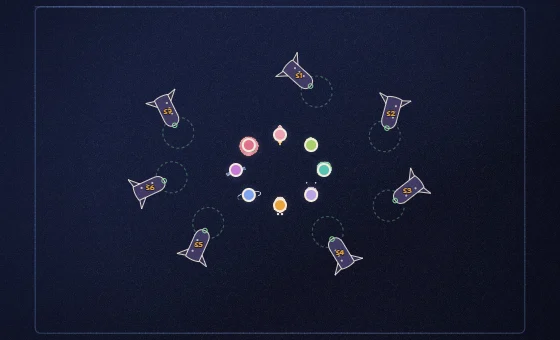
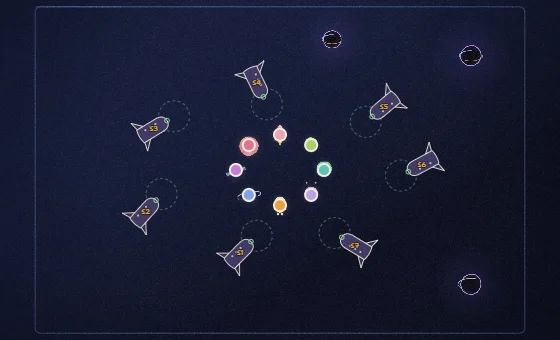
Docking Bay: black holes
Two or three black holes sit out past the shuttles (the two right-hand
corners, and sometimes one by the top or bottom edge), each wobbling
slowly round its own spot. They pull, and a floating racer that falls in
is out on the spot; docked racers are safe. When that happens a free
shuttle leaves too, so the seats still free stay one fewer than the
racers still looking. Each heat's shuttles are laid out clear of the
holes. None on the left, where the page's cards cover the room on a
computer and a hole could not be seen.

Holes now account for about a third of the knockouts; 8 racers race in
about 35-65 s, 16 in about 1.5-3 min, every race still ending with one
winner. Rules text and step pictures updated.

diff --git a/src/maps/dock.js b/src/maps/dock.js
@@ -12,10 +12,18 @@
 // port that reaches further and pulls harder the longer the heat goes on.
 // The beams are the same for everyone; who gets caught is down to where they
 // happen to be drifting.
+//
+// Two or three black holes sit out past the shuttles (the right-hand corners,
+// sometimes one by the top or bottom edge), each wobbling slowly round its
+// own spot. They pull, and a floating racer that
+// falls in is out on the spot. Docked racers are safe. A free shuttle leaves
+// with whoever fell in, so the seats still free stay one fewer than the
+// racers still looking for one.
 
 import { makeRng, hashSeed } from '../rng.js';
 import { staticRect, staticCircle, add, remove } from '../engine.js';
 import { drawEdge } from './common.js';
+import { createHole, updateHoles, holeCapturing, drawHoles } from './hazards.js';
 import { BODY } from '../config.js';
 import { t } from '../i18n.js';
 
@@ -32,6 +40,8 @@ const MIN_SPEED = 1.6;                   // a racer slower than this gets a nudg
 const HEAT_LIMIT_MS = 45000;             // insurance: a heat this long is called
 const VERDICT_MS = 1300;                 // the left-out racer is shown, then goes
 const BREAK_MS = 1400;                   // between heats, before the next shuttles arrive
+const HOLE_WOBBLE = 110;                 // how far a black hole wanders from its corner
+const HOLE_CLEAR = 300;                  // shuttles keep at least this far from a hole
 
 export default {
   id: 'dock',
@@ -40,10 +50,10 @@ export default {
   population: [2, 16],
   blurb: 'one shuttle short',
   rules: {
-    out: 'Still floating when the last shuttle is taken.',
-    watch: 'Every heat has one shuttle fewer than racers. Drift into a docking circle to get a seat; the beams pull harder as a heat goes on.',
+    out: 'Still floating when the last shuttle is taken, or falling into a black hole.',
+    watch: 'Every heat has one shuttle fewer than racers. Drift into a docking circle to get a seat, and keep clear of the black holes in the corners.',
   },
-  description: 'There is always one shuttle too few: drift into a docking circle to take a seat, and whoever is left floating each heat is out.',
+  description: 'There is always one shuttle too few: drift into a docking circle to take a seat, mind the black holes, and whoever is left floating each heat is out.',
 
   build({ sim, seed }) {
     const { Matter } = sim;
@@ -60,6 +70,27 @@ export default {
       staticRect(sim, half.w + 40, 0, 80, H + 200, wallOpts),
     );
 
+    // Black holes in the two right-hand corners, and sometimes a third near
+    // the top or bottom edge, each with its own slow wobble round its home
+    // spot. Never on the left: on a computer the page's left-hand cards
+    // cover that third of the room, and a hole nobody can see is not fair.
+    const spots = [[0.78, 0.7], [0.78, -0.7]];
+    if (rng() < 0.5) spots.push([rng.range(-0.05, 0.3), rng.sign() * 0.8]);
+    const holes = spots.map(([fx, fy], i) => {
+      const r = rng.range(38, 48);
+      const home = { x: fx * half.w, y: fy * half.h };
+      const h = createHole(sim, {
+        x: home.x, y: home.y, r,
+        seed: hashSeed('dockhole', seed, i),
+        mu: r * 150,
+        maxAccel: 0.75,
+      });
+      h.home = home;
+      h.phase = rng() * Math.PI * 2;
+      h.speed = rng.range(0.00025, 0.0005);
+      return h;
+    });
+
     let shuttles = [];   // { id, num, x, y, port, body, occupant, born, gone }
     let leaving = [];    // last heat's shuttles, fading out
     let heatNo = 0;
@@ -67,8 +98,32 @@ export default {
 
     // Lays out `count` shuttles round the room, spread evenly so no part of
     // it is favoured, each with its port facing somewhere between the middle
-    // and side-on, never into a wall.
+    // and side-on, never into a wall, and clear of the black holes: it turns
+    // the whole ring until nothing sits within HOLE_CLEAR of a hole's home.
     function layout(count, time) {
+      let best = null;
+      let bestGap = -1;
+      for (let attempt = 0; attempt < 24; attempt++) {
+        const ring = ringOf(count, time);
+        let gap = Infinity;
+        for (const s of ring) {
+          const q = portOf(s);
+          for (const h of holes) {
+            gap = Math.min(gap,
+              Math.hypot(s.x - h.home.x, s.y - h.home.y),
+              Math.hypot(q.x - h.home.x, q.y - h.home.y));
+          }
+        }
+        if (gap > bestGap) {
+          best = ring;
+          bestGap = gap;
+        }
+        if (gap >= HOLE_CLEAR + HOLE_WOBBLE) break;
+      }
+      return best || [];
+    }
+
+    function ringOf(count, time) {
       const out = [];
       const turn = rng() * Math.PI * 2;
       const rx = half.w * 0.66;
@@ -196,6 +251,55 @@ export default {
 
     // The racer to call out if a heat drags on: whoever is farthest from any
     // port still free.
+    // The holes wobble round their corners; never far enough to reach the
+    // shuttles, which were laid out clear of them.
+    function moveHoles(dt, round) {
+      updateHoles(holes, dt, 0, bounds, round.particles);
+      for (const h of holes) {
+        const a = h.phase + round.time * h.speed;
+        h.well.x = h.home.x + Math.cos(a) * HOLE_WOBBLE;
+        h.well.y = h.home.y + Math.sin(a * 1.3) * HOLE_WOBBLE * 0.7;
+      }
+    }
+
+    // A floating racer inside a hole's edge is out. Docked racers are safe.
+    function swallow(round) {
+      let lost = false;
+      for (const p of round.alivePlayers()) {
+        if (p.docked) continue;
+        const pos = p.body.position;
+        const h = holeCapturing(holes, pos);
+        if (h && round.kill(p, 'hole', { at: pos, target: { x: h.well.x, y: h.well.y } })) lost = true;
+      }
+      if (lost) rebalance(round);
+    }
+
+    // Keeps the free shuttles one fewer than the racers still floating, by
+    // sending away the free ones farthest from anybody.
+    function rebalance(round) {
+      const floating = round.alivePlayers().filter((p) => !p.docked);
+      let extra = shuttles.filter((s) => s.occupant === null).length - Math.max(0, floating.length - 1);
+      while (extra-- > 0) {
+        let pick = null;
+        let far = -1;
+        for (const s of shuttles) {
+          if (s.occupant !== null) continue;
+          const q = portOf(s);
+          const d = Math.min(Infinity, ...floating.map((p) => Math.hypot(q.x - p.body.position.x, q.y - p.body.position.y)));
+          if (d > far) {
+            far = d;
+            pick = s;
+          }
+        }
+        if (!pick) break;
+        if (pick.body) remove(sim, pick.body);
+        pick.body = null;
+        pick.gone = round.time;
+        leaving.push(pick);
+        shuttles = shuttles.filter((s) => s !== pick);
+      }
+    }
+
     function farthest(list) {
       let worst = null;
       let far = -1;
@@ -231,7 +335,7 @@ export default {
         s.body = null;
         s.gone = round.time;
       }
-      leaving = shuttles;
+      leaving = leaving.concat(shuttles);
       shuttles = [];
     }
 
@@ -283,6 +387,10 @@ export default {
           heat = { phase: 'race', t: 0, loser: null };
         }
         heat.t += dt;
+        moveHoles(dt, round);
+        swallow(round);
+        // A hole may just have taken the second-to-last racer.
+        if (round.phase !== 'running') return;
         const alive = round.alivePlayers();
         for (const p of alive) if (p.docked) pin(p, frames);
 
@@ -349,6 +457,7 @@ export default {
       },
 
       drawFront(g, cam, time) {
+        drawHoles(g, holes, time);
         for (const s of leaving) {
           const k = 1 - Math.min(1, (time - s.gone) / 700);
           if (k > 0) drawShuttle(g, s, time, k, null);

diff --git a/src/i18n.js b/src/i18n.js
@@ -205,11 +205,12 @@ const KO = {
   // Docking Bay (src/maps/dock.js)
   'Docking Bay': '도킹 정거장',
   'one shuttle short': '셔틀이 하나 모자라요',
-  'Still floating when the last shuttle is taken.': '마지막 셔틀까지 다 찼을 때 아직 떠다니면 탈락.',
-  'Every heat has one shuttle fewer than racers. Drift into a docking circle to get a seat; the beams pull harder as a heat goes on.':
-    '매 판마다 셔틀은 참가자보다 하나 적어요. 도킹 원 안으로 떠 들어가면 자리를 잡아요. 시간이 갈수록 셔틀이 더 세게 끌어당겨요.',
-  'There is always one shuttle too few: drift into a docking circle to take a seat, and whoever is left floating each heat is out.':
-    '셔틀은 늘 하나 모자라요. 도킹 원으로 떠 들어가면 자리를 잡고, 매 판 끝까지 떠다니는 한 명이 탈락해요.',
+  'Still floating when the last shuttle is taken, or falling into a black hole.':
+    '마지막 셔틀까지 다 찼을 때 아직 떠다니거나, 블랙홀에 빠지면 탈락.',
+  'Every heat has one shuttle fewer than racers. Drift into a docking circle to get a seat, and keep clear of the black holes in the corners.':
+    '매 판마다 셔틀은 참가자보다 하나 적어요. 도킹 원 안으로 떠 들어가면 자리를 잡아요. 구석의 블랙홀은 조심하세요.',
+  'There is always one shuttle too few: drift into a docking circle to take a seat, mind the black holes, and whoever is left floating each heat is out.':
+    '셔틀은 늘 하나 모자라요. 도킹 원으로 떠 들어가면 자리를 잡고, 블랙홀을 조심하세요. 매 판 끝까지 떠다니는 한 명이 탈락해요.',
   'No shuttle!': '셔틀 없음!',
   'Round {n} · {free} of {all} shuttles free': '{n}번째 판 · 빈 셔틀 {free}/{all}',
 
